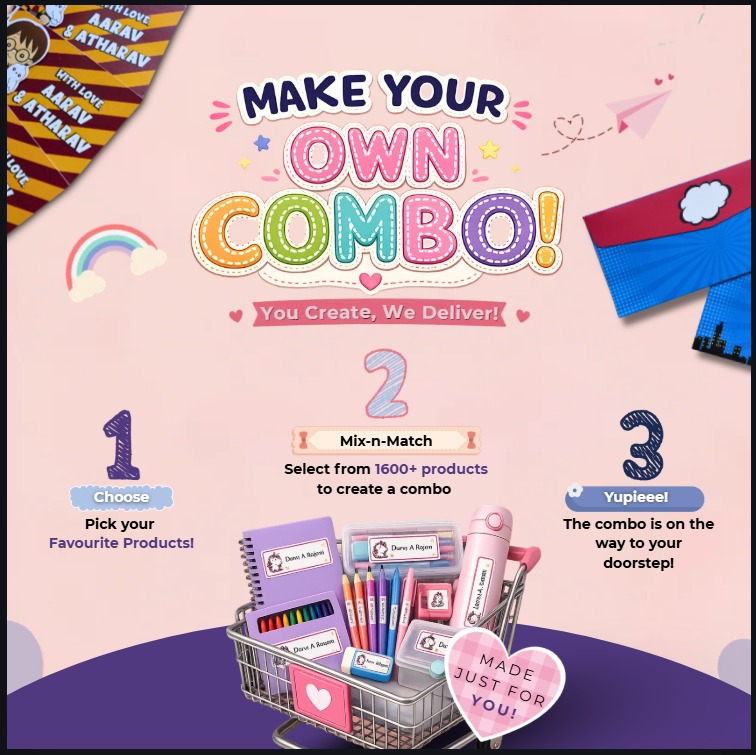
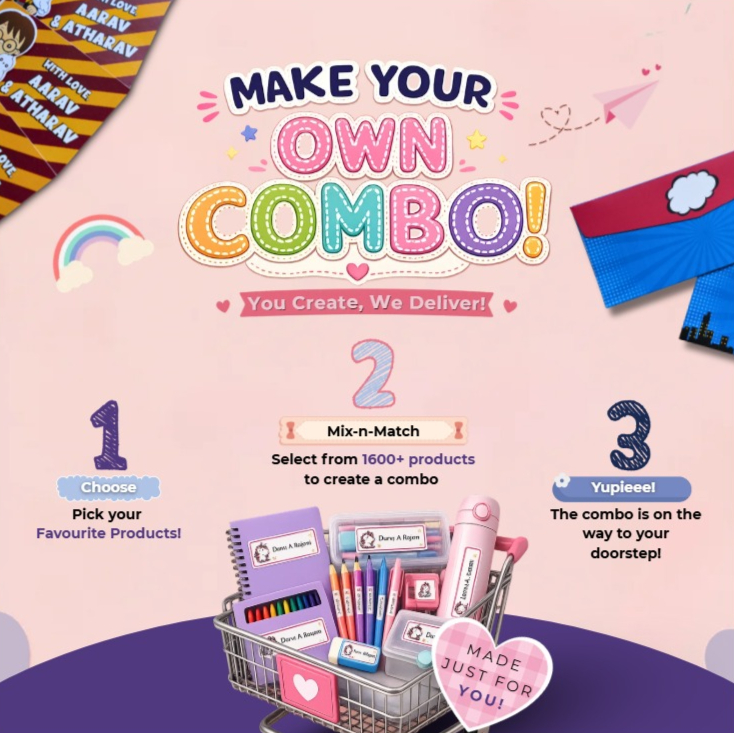
changes for frontend

Changed region(s): [[0.0, 0.0, 1.0, 1.0], [0.7493, 0.5402, 0.9591, 0.7804], [0.8692, 0.09, 0.8992, 0.1201]]

diff --git a/src/app/(storefront)/category/[slug]/category.module.css b/src/app/(storefront)/category/[slug]/category.module.css
@@ -127,7 +127,7 @@
 /* Slider mode (>8 items) */
 .filterSection {
   margin: 0;
-  padding: 50px 6% 20px;
+  padding: 6px 6% 20px;
   background: transparent;
   border-radius: 0;
   display: flex;
@@ -141,7 +141,7 @@
 /* Normal mode (≤8 items) */
 .filterSectionNormal {
   margin: 0;
-  padding: 50px 6% 20px;
+  padding: 6px 6% 20px;
   background: transparent;
   border-radius: 0;
   position: relative;
@@ -601,7 +601,7 @@
 /* Large Desktop (21.5" and above) */
 @media (min-width: 1920px) {
   .headerArea {
-    padding: 60px 6% 50px;
+    padding: 30px 6% 24px;
   }
 
   .sectionHeader h2 {
@@ -646,7 +646,7 @@
 /* Extra Large Desktop */
 @media (min-width: 1600px) and (max-width: 1919px) {
   .headerArea {
-    padding: 55px 6% 45px;
+    padding: 28px 6% 22px;
   }
 
   .sectionHeader h2 {
@@ -681,7 +681,7 @@
 /* Standard Desktop */
 @media (min-width: 1200px) and (max-width: 1599px) {
   .headerArea {
-    padding: 50px 6% 40px;
+    padding: 26px 6% 20px;
   }
 
   .sectionHeader h2 {
@@ -720,7 +720,7 @@
 /* Laptop / Small Desktop */
 @media (min-width: 1025px) and (max-width: 1199px) {
   .headerArea {
-    padding: 45px 5% 35px;
+    padding: 24px 5% 18px;
   }
 
   .sectionHeader h2 {
@@ -770,7 +770,7 @@
 /* Tablet Landscape */
 @media (min-width: 769px) and (max-width: 1024px) {
   .headerArea {
-    padding: 40px 4% 30px;
+    padding: 22px 4% 16px;
   }
 
   .sectionHeader h2 {
@@ -844,7 +844,7 @@
   }
 
   .headerArea {
-    padding: 70px 4% 40px; /* Top 70px, bottom 40px */
+    padding: 34px 4% 20px; /* Reduced top/bottom to tighten empty spacing */
     margin-bottom: 0; /* No gap between header and circles */
   }
 
@@ -950,7 +950,7 @@
 
   /* MOBILE CIRCLES: Show 4 at a time on tablets too */
   .filterSection {
-    padding: 20px 1% 5px; /* Added top padding */
+    padding: 8px 1% 5px; /* Tightened top padding to bring circles up */
     gap: 10px;
     background: transparent; /* Transparent - no colored background */
     margin: 0; /* No margin */
@@ -999,9 +999,7 @@
   .filterPill:hover .filterIcon {
     transform: none;
     border-color: #c4b5a0; /* Grey border */
-    box-shadow: 
-      0 4px 16px rgba(0, 0, 0, 0.06),
-      inset 0 1px 2px rgba(255, 255, 255, 0.5);
+    box-shadow: none; /* Remove coloured shadow behind circles (mobile) */
   }
 
   .filterIcon {
@@ -1011,6 +1009,7 @@
     border-color: #c4b5a0; /* Grey border like reference image */
     background: #ffffff; /* Pure white background */
     padding: 0; /* Remove padding to eliminate white inner border */
+    box-shadow: none; /* Remove coloured shadow behind circles (mobile) */
   }
   
   /* Active state - keep grey border */
@@ -1042,7 +1041,7 @@
   }
 
   .headerArea {
-    padding: 70px 4% 40px; /* Top 70px, bottom 40px */
+    padding: 34px 4% 20px; /* Reduced top/bottom to tighten empty spacing */
     margin-bottom: 0; /* No gap between header and circles */
   }
 
@@ -1175,7 +1174,7 @@
   }
 
   .filterSection {
-    padding: 20px 1% 5px; /* Added top padding */
+    padding: 8px 1% 5px; /* Tightened top padding to bring circles up */
     gap: 8px;
     background: transparent; /* Transparent - inherits white from page */
     margin: 0; /* No margin */
@@ -1231,9 +1230,7 @@
   .filterPill:hover .filterIcon {
     transform: none;
     border-color: #c4b5a0; /* Grey border on hover */
-    box-shadow: 
-      0 4px 16px rgba(0, 0, 0, 0.06),
-      inset 0 1px 2px rgba(255, 255, 255, 0.5);
+    box-shadow: none; /* Remove coloured shadow behind circles (mobile) */
   }
 
   /* Bigger circle size for mobile - matching reference image */
@@ -1244,6 +1241,7 @@
     border-color: #c4b5a0; /* Grey border like reference image */
     background: #ffffff; /* Pure white background - no colored background */
     padding: 0; /* Remove padding to eliminate white inner border */
+    box-shadow: none; /* Remove coloured shadow behind circles (mobile) */
     -webkit-transform: translateZ(0);
     transform: translateZ(0);
     -webkit-backface-visibility: hidden;

diff --git a/src/app/globals.css b/src/app/globals.css
@@ -25,6 +25,27 @@
   --transition-smooth: all 0.6s cubic-bezier(0.2, 1, 0.2, 1);
   --section-padding: 40px 4%;
   --nav-height: 120px;
+
+  /* Decorative display face — used ONLY for category/subcategory headings
+     and the product name on the product page (see those CSS modules). */
+  --font-bilderberg: 'Bilderberg', var(--font-primary);
+}
+
+/* Bilderberg display font (files live in /public/Font — case-sensitive path). */
+@font-face {
+  font-family: 'Bilderberg';
+  src: url('/Font/Bilderberg OTF.otf') format('opentype');
+  font-weight: 400;
+  font-style: normal;
+  font-display: swap;
+}
+
+@font-face {
+  font-family: 'Bilderberg';
+  src: url('/Font/Bilderberg Italic OTF.otf') format('opentype');
+  font-weight: 400;
+  font-style: italic;
+  font-display: swap;
 }
 
 /* ── Reset & Base ── */
@@ -78,6 +99,22 @@ body {
 @supports (-webkit-touch-callout: none) {
   body {
     min-height: 100dvh;
+  }
+}
+
+/* Mobile sticky-footer: on short pages the body stretches to 100dvh, which
+   left a white gap below the footer (worst on iOS Chrome, where the gap grew
+   as the toolbar collapsed). Make the body a flex column and let <main> absorb
+   the slack so the footer is always pinned to the content's bottom edge.
+   Navbar is position:fixed so it stays out of this flow. Mobile only. */
+@media (max-width: 768px) {
+  body {
+    display: flex;
+    flex-direction: column;
+  }
+
+  body > main {
+    flex: 1 0 auto;
   }
 }
 

diff --git a/src/app/(storefront)/product/[slug]/product.module.css b/src/app/(storefront)/product/[slug]/product.module.css
@@ -295,7 +295,7 @@
 }
 
 .title {
-  font-family: var(--font-primary);
+  font-family: var(--font-bilderberg);
   font-weight: 600;
   font-size: clamp(1.4rem, 2vw, 1.8rem);
   letter-spacing: 1.5px;
@@ -313,7 +313,7 @@
 }
 
 .price {
-  font-size: 1.65rem;
+  font-size: 1.4rem;
   font-weight: 600;
   color: var(--color-text);
   letter-spacing: 0.5px;
@@ -355,8 +355,7 @@
 }
 
 .descTextWrapper {
-  display: flex;
-  align-items: flex-start;
+  display: block;
   font-size: 14px;
   line-height: 1.85;
   color: var(--color-text);
@@ -365,20 +364,15 @@
   white-space: pre-wrap;
 }
 
+/* First letter matches the rest of the description — no editorial drop-cap.
+   Inline so it flows continuously with the paragraph (no column gap). */
 .dropCap {
-  flex-shrink: 0;
-  font-family: var(--font-primary);
-  font-size: 54px;
-  line-height: 48px;
-  padding-top: 4px;
-  padding-right: 8px;
-  color: var(--color-text);
-  font-weight: 400;
+  font: inherit;
+  color: inherit;
 }
 
 .descText {
-  display: block;
-  flex: 1;
+  display: inline;
 }
 
 .readMoreBtn {
@@ -1276,7 +1270,7 @@
   }
 
   .price {
-    font-size: 1.35rem;
+    font-size: 1.15rem;
   }
 
   .bannerContainer {

diff --git a/src/components/product/ProductCard.js b/src/components/product/ProductCard.js
@@ -151,7 +151,7 @@ export default function ProductCard({ product, disableLinks = false }) {
         )}
         <div className={styles.pricing}>
           <span className={styles.price}>{formatPrice(product.price)}</span>
-          {product.originalPrice && (
+          {discount > 0 && product.originalPrice && (
             <span className={styles.originalPrice}>{formatPrice(product.originalPrice)}</span>
           )}
           {discount > 0 && <span className={styles.discount}>{discount}% off</span>}

diff --git a/src/components/layout/MobileMenu.module.css b/src/components/layout/MobileMenu.module.css
@@ -83,11 +83,10 @@
   flex-direction: column;
 }
 
-/* Distribute category rows over the full drawer height so no dead
-   whitespace is left below the last item on tall phones. */
+/* Pack category rows tight from the top (reduced inter-section spacing). */
 .navGroup {
   border-bottom: 1px solid #f5f5f5;
-  flex: 1 0 auto;
+  flex: 0 0 auto;
   display: flex;
   flex-direction: column;
   justify-content: center;

diff --git a/src/app/(storefront)/product/[slug]/ProductDetail.js b/src/app/(storefront)/product/[slug]/ProductDetail.js
@@ -521,7 +521,7 @@ export default function ProductDetail({ product }) {
 
         <div className={styles.pricing}>
           <span className={styles.price}>{formatPrice(displayPrice)}</span>
-          {displayOriginal && (
+          {discount > 0 && displayOriginal && (
             <span className={styles.original}>
               {formatPrice(displayOriginal)}
             </span>

diff --git a/src/components/layout/Navbar.module.css b/src/components/layout/Navbar.module.css
@@ -602,7 +602,7 @@
 
 @media (max-width: 480px) {
   .announcementBar {
-    font-size: 8px; /* (e) slightly smaller marquee text on mobile only */
+    font-size: 11px; /* (e) marquee text size on mobile only */
     padding: 6px 0;
     letter-spacing: 1.5px;
   }

diff --git a/src/components/home/BestSellers.module.css b/src/components/home/BestSellers.module.css
@@ -454,7 +454,9 @@
     margin-top: 8px;
   }
   .viewAllBtn {
-    padding: 14px 40px;
+    padding: 11px 28px;
+    font-size: 10px;
+    letter-spacing: 2px;
   }
   
   /* Thinner border for mobile */
